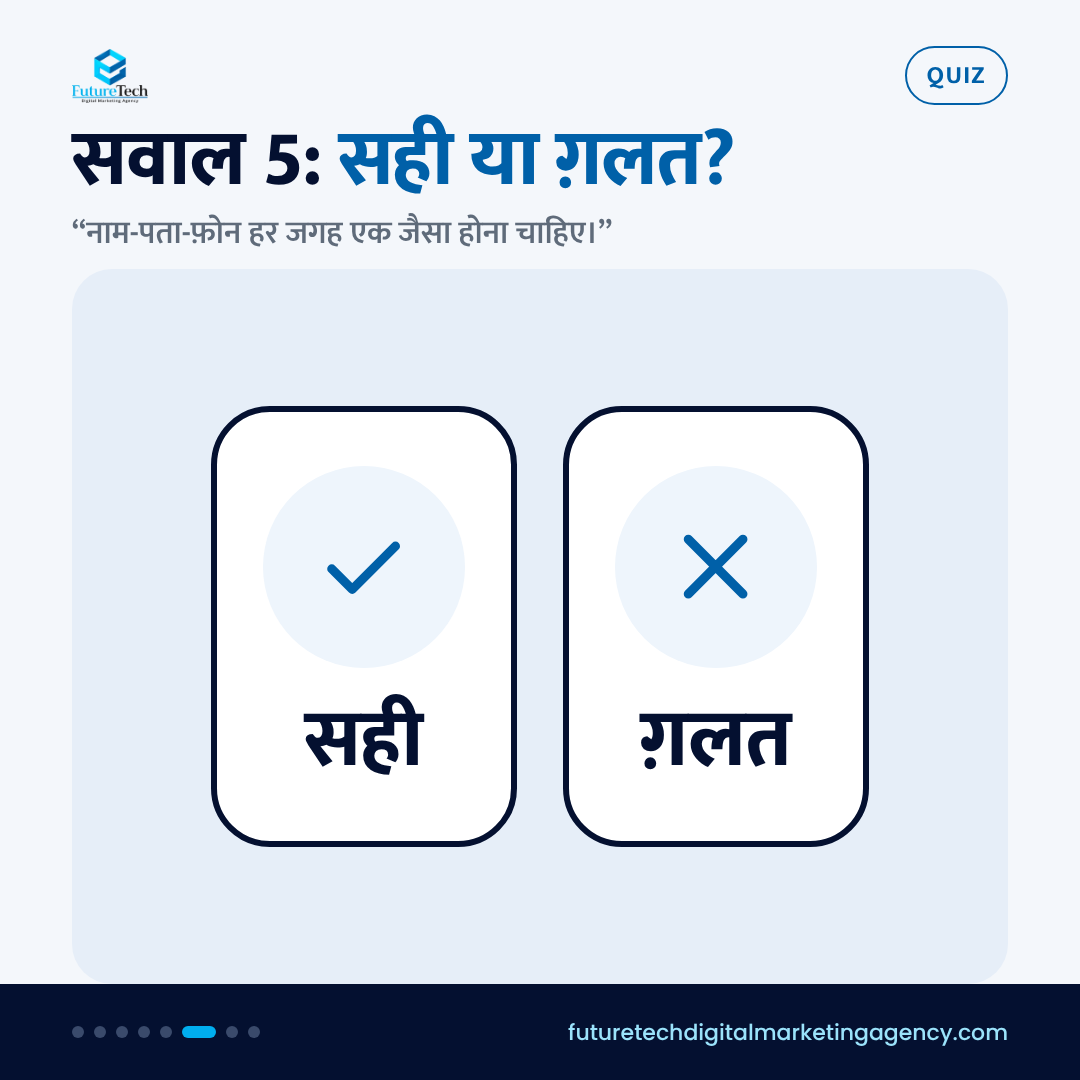
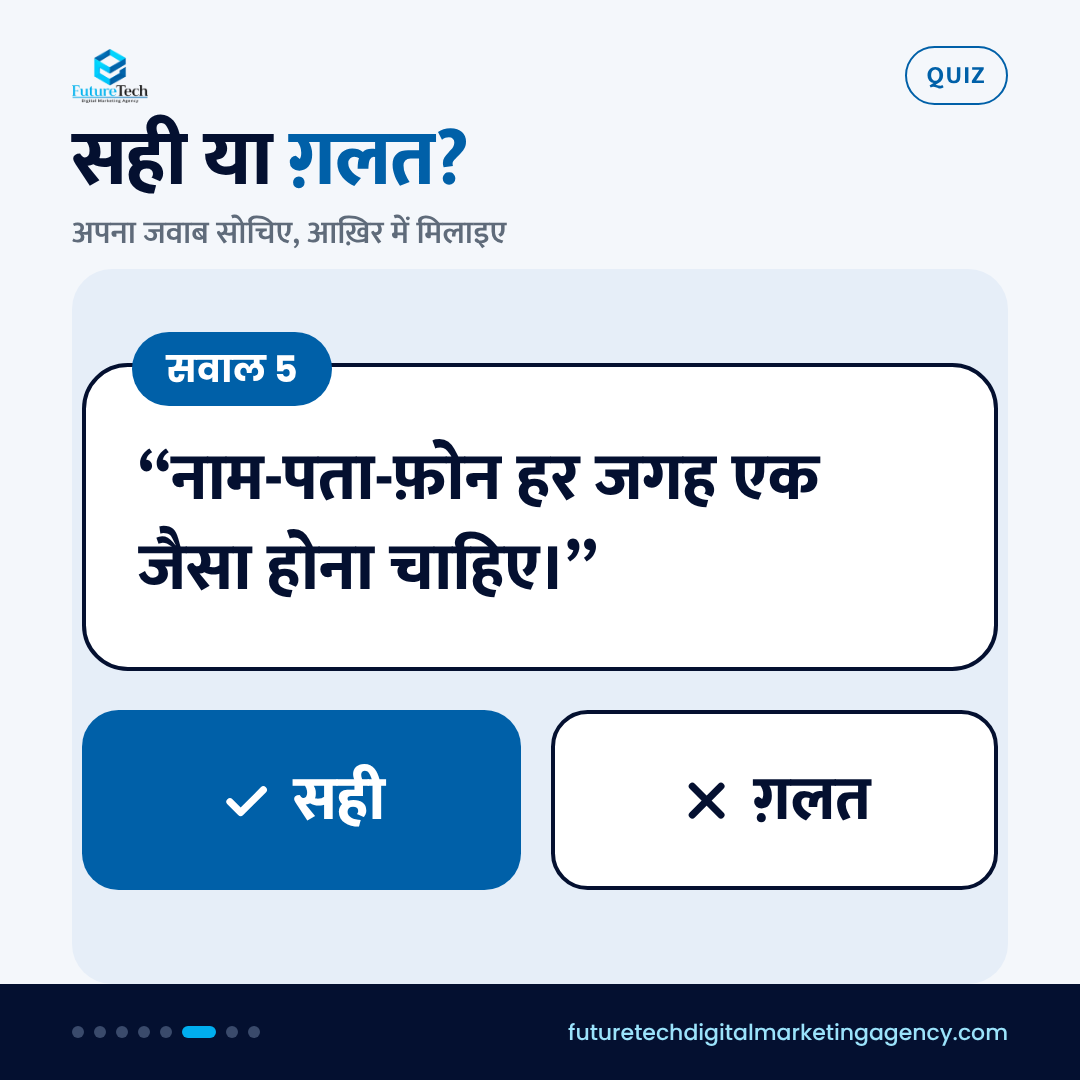
Fix engagement posts: bigger quiz/AB cards, real poll card (no placeholder text)
Claude-Session: https://claude.ai/code/session_016LhnTTDq2p1NVPthft6u7V

Changed region(s): [[0.0611, 0.3056, 0.9472, 0.825], [0.0611, 0.0917, 0.7028, 0.2444]]

diff --git a/tools/engine/content-posts4.js b/tools/engine/content-posts4.js
@@ -1,13 +1,16 @@
 // Batch 4: engagement-focused STATIC content (quiz, relatable, this-or-that, mistakes, checklist, story polls). No numbers/prices/guarantees.
-const { A } = require('./lib');
+const L = require('./lib'); const { A } = L; const ic = L.ic;
 const wa = c => `https://wa.me/917974217411?text=Namaste%20(${c})`;
 const car = o => ({ kind: 'carousel', time: '14:00', ...o });
 const single = o => ({ kind: 'single', time: '14:00', ...o });
 const CTA = (h, ask) => ({ cta: true, h, ask, reply: 'Namaste! Bataiye, aapka business kya hai?', share: 'Business वाले दोस्त को भेजें' });
-const pollBox = t => `<div style="width:780px;height:320px;border:4px dashed #B8C4D4;border-radius:44px;display:flex;align-items:center;justify-content:center;font-size:38px;font-weight:600;color:#8794A6;font-family:Poppins">[ Poll sticker: ${t} ]</div>`;
-const poll = (n, date, q, opts, note) => ({ id: `poll-${n}`, kind: 'poll', date, time: '14:00', slug: `Story_Poll_${n}`, title: `STORY POLL ${n} — ${date}`, poll: opts, slide: { chip: 'POLL', h: q, sub: note || 'जवाब दें — नीचे poll में tap करें', art: pollBox(opts), plain: true } });
+const pollBox = (opts) => `<div style="width:800px;background:#fff;border:4px solid #041030;border-radius:44px;padding:44px 44px 36px;font-family:Mukta,sans-serif"><div style="font:700 30px Poppins;color:#0060A8;letter-spacing:3px;margin-bottom:26px">आपका जवाब?</div>${opts.split(' / ').map(o => `<div style="display:flex;align-items:center;gap:26px;border:3px solid #CBD6E6;border-radius:26px;padding:24px 30px;margin-bottom:18px"><div style="width:46px;height:46px;border:4px solid #0060A8;border-radius:50%"></div><div style="font:800 46px Mukta;color:#041030">${o}</div></div>`).join('')}</div>`;
+const poll = (n, date, q, opts, note) => ({ id: `poll-${n}`, kind: 'poll', date, time: '14:00', slug: `Story_Poll_${n}`, title: `STORY POLL ${n} — ${date}`, poll: opts, slide: { chip: 'POLL', h: q, sub: note || 'अपना जवाब चुनिए', art: pollBox(opts), plain: true } });
 const SK = [['सही', 'check'], ['ग़लत', 'x']];
-const q = (n, stmt) => ({ h: `सवाल ${n}: <span class="blue">सही या ग़लत?</span>`, sub: `“${stmt}”`, art: A.cards([{ icon: 'check', t: 'सही' }, { icon: 'x', t: 'ग़लत' }], false) });
+const quizArt = (n, stmt) => `<div style="width:800px;font-family:Mukta,sans-serif"><div style="background:#fff;border:4px solid #041030;border-radius:40px;padding:60px 46px 46px;position:relative;margin-bottom:34px"><div style="position:absolute;top:-30px;left:40px;background:#0060A8;color:#fff;font:700 32px Poppins;padding:8px 30px;border-radius:40px">सवाल ${n}</div><div style="font:800 58px/1.35 Mukta;color:#041030">“${stmt}”</div></div><div style="display:flex;gap:26px"><div style="flex:1;background:#0060A8;color:#fff;border-radius:32px;padding:30px 0;text-align:center;font:800 54px Mukta;display:flex;align-items:center;justify-content:center;gap:16px"><span style="width:50px;height:50px;display:block">${ic('check', '#fff', 3)}</span>सही</div><div style="flex:1;background:#fff;color:#041030;border:4px solid #041030;border-radius:32px;padding:30px 0;text-align:center;font:800 54px Mukta;display:flex;align-items:center;justify-content:center;gap:16px"><span style="width:50px;height:50px;display:block">${ic('x', '#041030', 3)}</span>ग़लत</div></div></div>`;
+const q = (n, stmt) => ({ h: `सही या <span class="blue">ग़लत?</span>`, sub: 'अपना जवाब सोचिए, आख़िर में मिलाइए', art: quizArt(n, stmt) });
+const abCard = (tag, icn, t, s) => `<div style="flex:1;background:#fff;border:4px solid #041030;border-radius:40px;padding:50px 30px 44px;text-align:center;position:relative"><div style="position:absolute;top:-30px;left:50%;transform:translateX(-50%);background:#FFC94D;color:#041030;font:800 40px Poppins;width:70px;height:70px;border-radius:50%;display:flex;align-items:center;justify-content:center">${tag}</div><div style="width:130px;height:130px;margin:10px auto 24px;background:#EAF3FC;border-radius:50%;padding:30px">${ic(icn, '#0060A8', 2.2)}</div><div style="font:800 60px/1.2 Mukta;color:#041030">${t}</div><div style="font:500 34px Poppins;color:#5F6B7A;margin-top:12px">${s}</div></div>`;
+const abArt = `<div style="width:840px;display:flex;gap:30px;font-family:Mukta,sans-serif">${abCard('A', 'globe', 'Website', 'अपना पक्का पता')}${abCard('B', 'cam', 'Instagram page', 'रोज़ का जुड़ाव')}</div>`;
 
 const quiz = car({ id: 'quiz-sahi-galat', date: '2027-02-04', slug: 'Quiz_Sahi_Ya_Galat_5_Sawal', lead: 'C20', utm: 'c20', series: 'QUIZ',
   title: 'CAROUSEL — Quiz: sahi ya galat, 5 sawal (8 slides)', gbpH: 'क्या आप जानते हैं? <span class="mk">सही या ग़लत</span>',
@@ -121,7 +124,7 @@ const relatable = single({ id: 'relatable-messages', date: '2027-01-25', slug: '
   alt: ['Roz ke wahi sawal: price, location aur timing. Jawab ek baar Google Profile aur WhatsApp quick replies me daalein'], altGbp: 'FutureTech graphic in Hindi: roz ke wahi sawal aur unka aasaan hal.' });
 
 const thisThat = single({ id: 'this-or-that', date: '2027-01-30', slug: 'Pehle_Kya_Website_Ya_Instagram', lead: 'P24', utm: 'p24', title: 'SINGLE — Pehle kya: Website ya Instagram page? (A/B comment)',
-  slide: { chip: 'AAPKI RAAY', h: 'पहले क्या बनाएँ? <span class="mk">A या B</span>', sub: 'आपकी राय क्या है?', art: A.cards([{ icon: 'globe', t: 'A: Website', s: 'अपना पक्का पता' }, { icon: 'cam', t: 'B: Instagram page', s: 'रोज़ का जुड़ाव' }], false), fix: ['COMMENT', 'अपना जवाब A या B लिखिए — हम बताएँगे कैसे चुनें।'] },
+  slide: { chip: 'AAPKI RAAY', h: 'पहले क्या बनाएँ? <span class="mk">A या B</span>', sub: 'आपकी राय क्या है?', art: abArt, fix: ['COMMENT', 'अपना जवाब A या B लिखिए — हम बताएँगे कैसे चुनें।'] },
   ig: `नया business शुरू किया — पहले क्या बनाएँ? 🤔
 
 A) Website — अपना पक्का पता
@@ -176,4 +179,4 @@ const festival = single({ id: 'festival-checklist', date: '2027-02-12', slug: 'T
   gbp: 'त्योहार से पहले की तैयारी: timing और छुट्टी update करें, Google Business Profile में बदलाव डालें, WhatsApp में greeting या away message लगाएँ, असली photos तैयार रखें और posts पहले से तय करें। FutureTech Digital Marketing Agency आपकी मदद करती है।',
   alt: ['Tyohaar se pehle 5 taiyari: timing, Google Profile, WhatsApp message, photos aur post plan'], altGbp: 'FutureTech checklist in Hindi: tyohaar se pehle 5 taiyari.' });
 
-module.exports = [relatable, poll(5, '2027-01-27', 'आपके business की <span class="mk">Google profile</span> है?', 'हाँ / नहीं / पता नहीं'), thisThat, poll(6, '2027-02-03', 'Message का जवाब <span class="mk">कितनी देर</span> में देते हैं?', 'तुरंत / कुछ घंटे में / अगले दिन'), quiz, mistakes, poll(7, '2027-02-10', 'आपका ज़्यादा काम <span class="mk">कहाँ से</span> आता है?', 'जान-पहचान / Google-Maps / Social media'), festival];
+module.exports = [relatable, poll(5, '2027-01-27', 'आपके business की Google profile है?', 'हाँ / नहीं / पता नहीं'), thisThat, poll(6, '2027-02-03', 'Customer के message का जवाब कितनी देर में देते हैं?', 'तुरंत / कुछ घंटे में / अगले दिन'), quiz, mistakes, poll(7, '2027-02-10', 'आपका ज़्यादा काम कहाँ से आता है?', 'जान-पहचान / Google-Maps / Social media'), festival];
